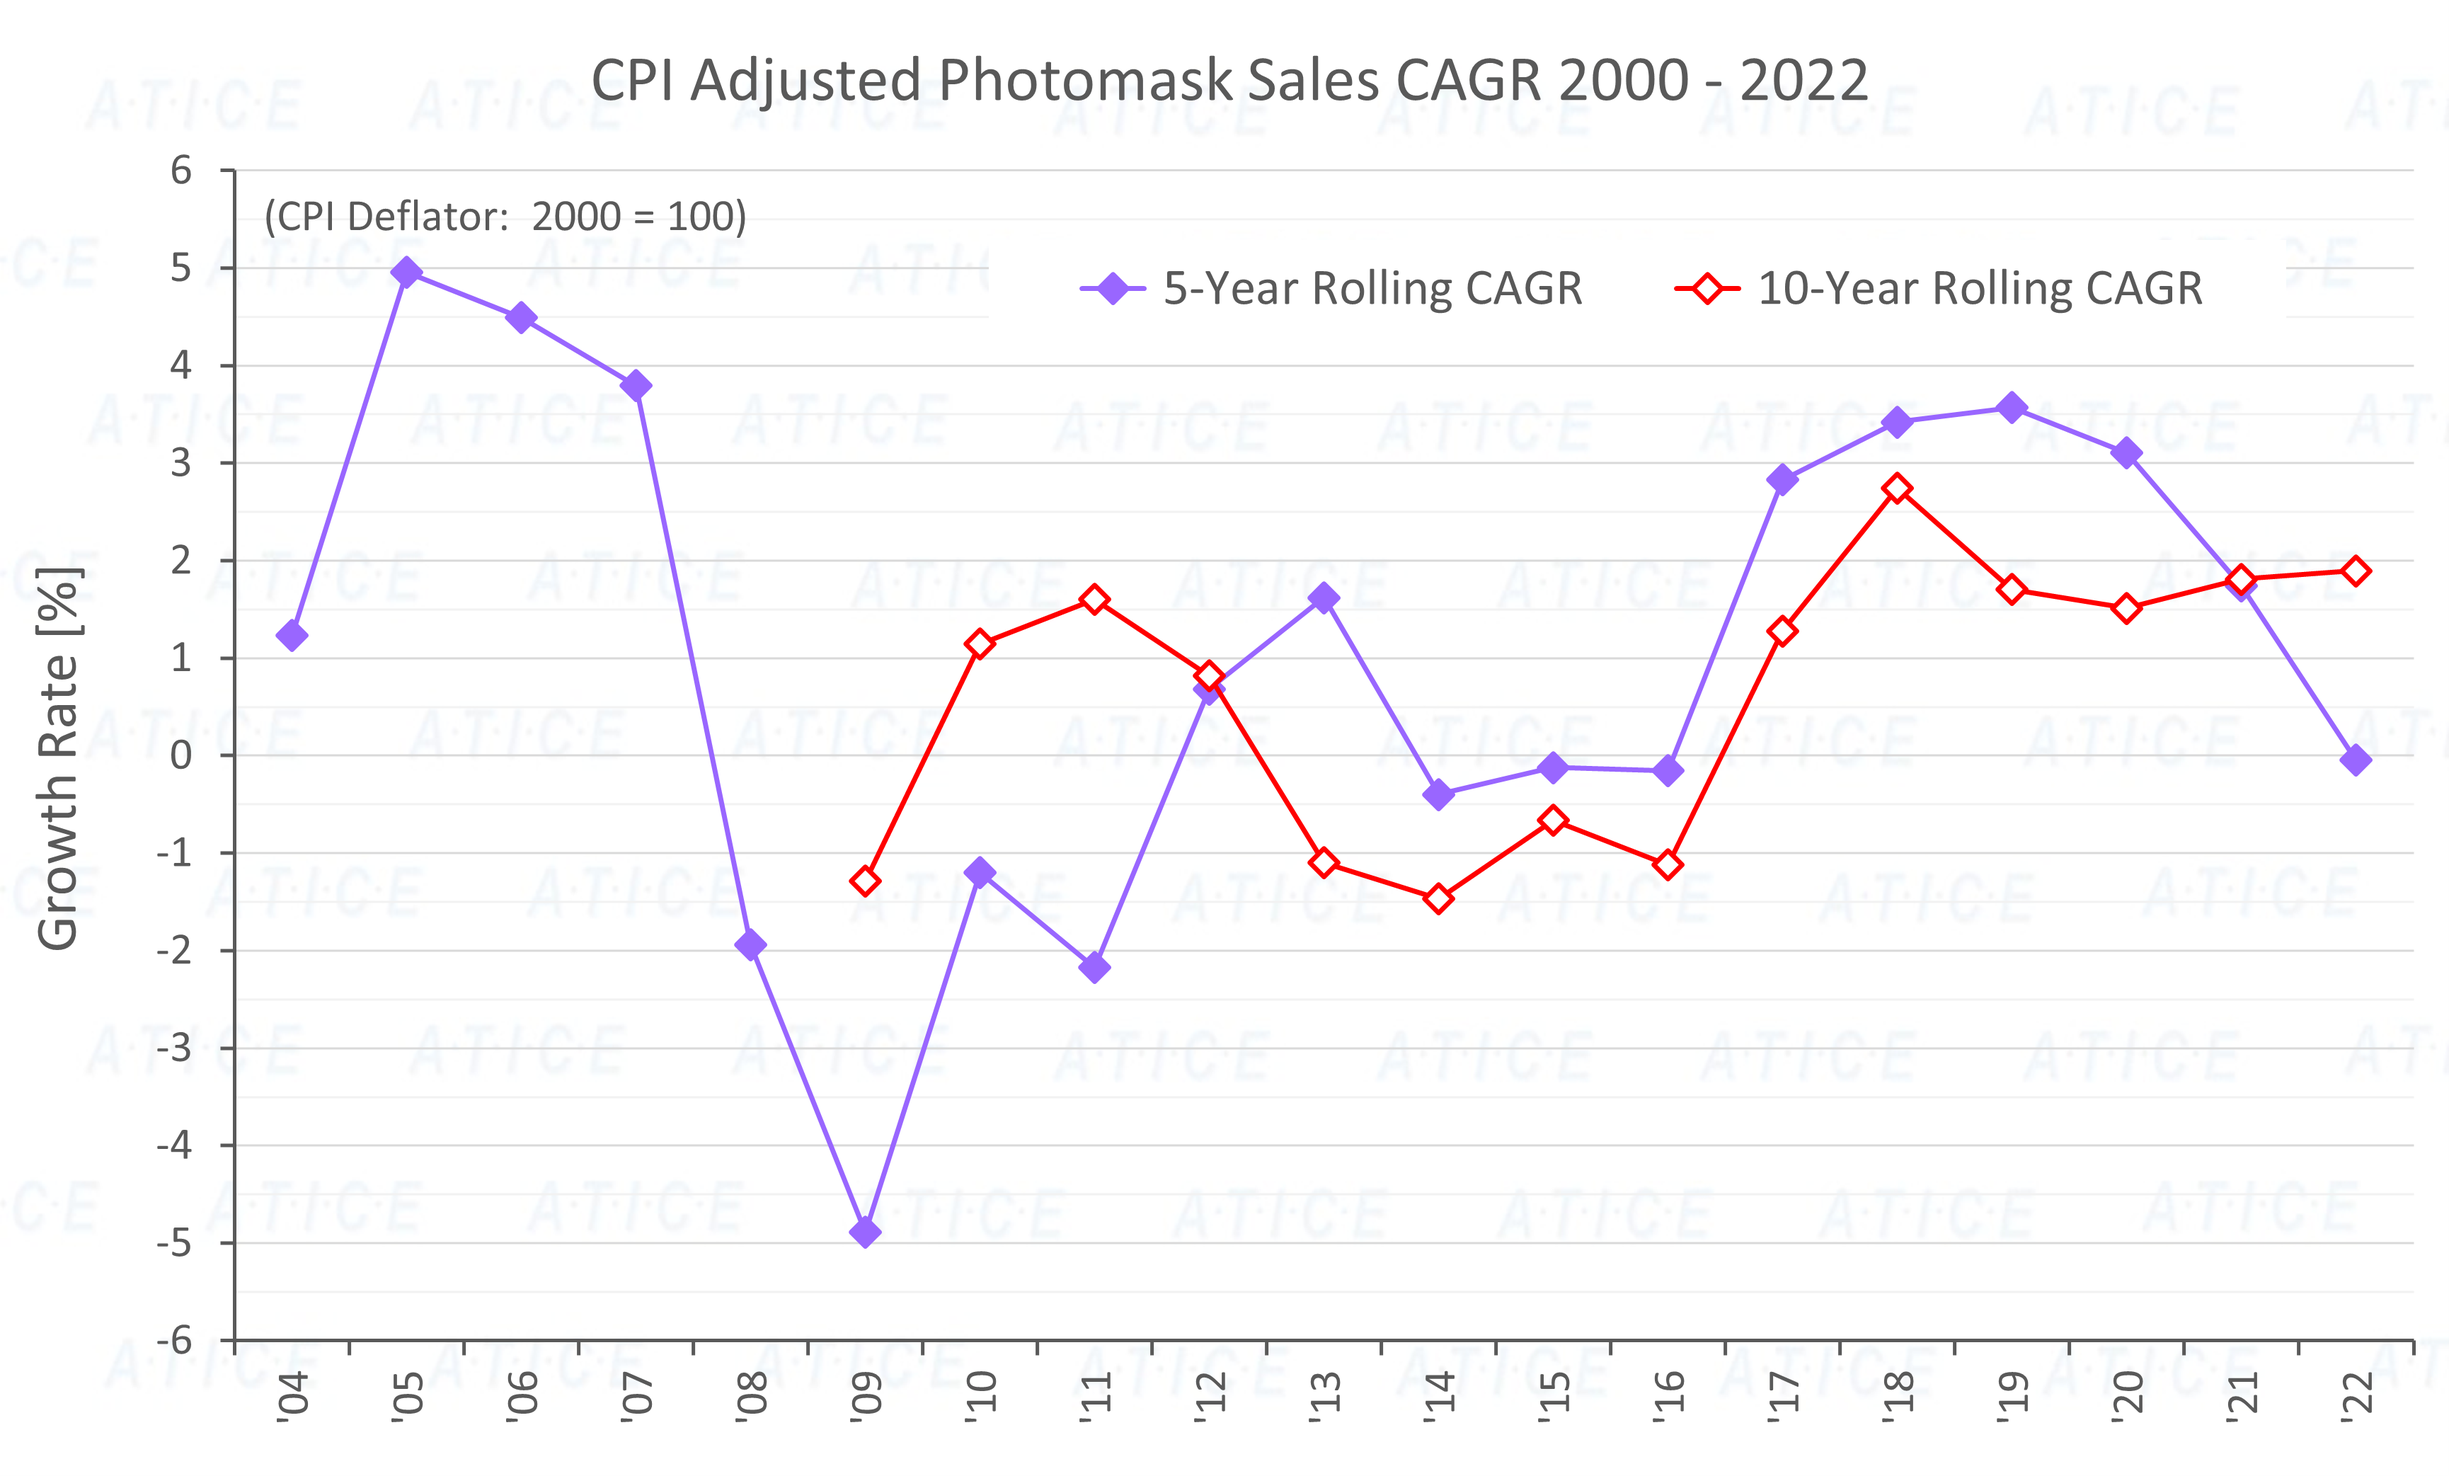
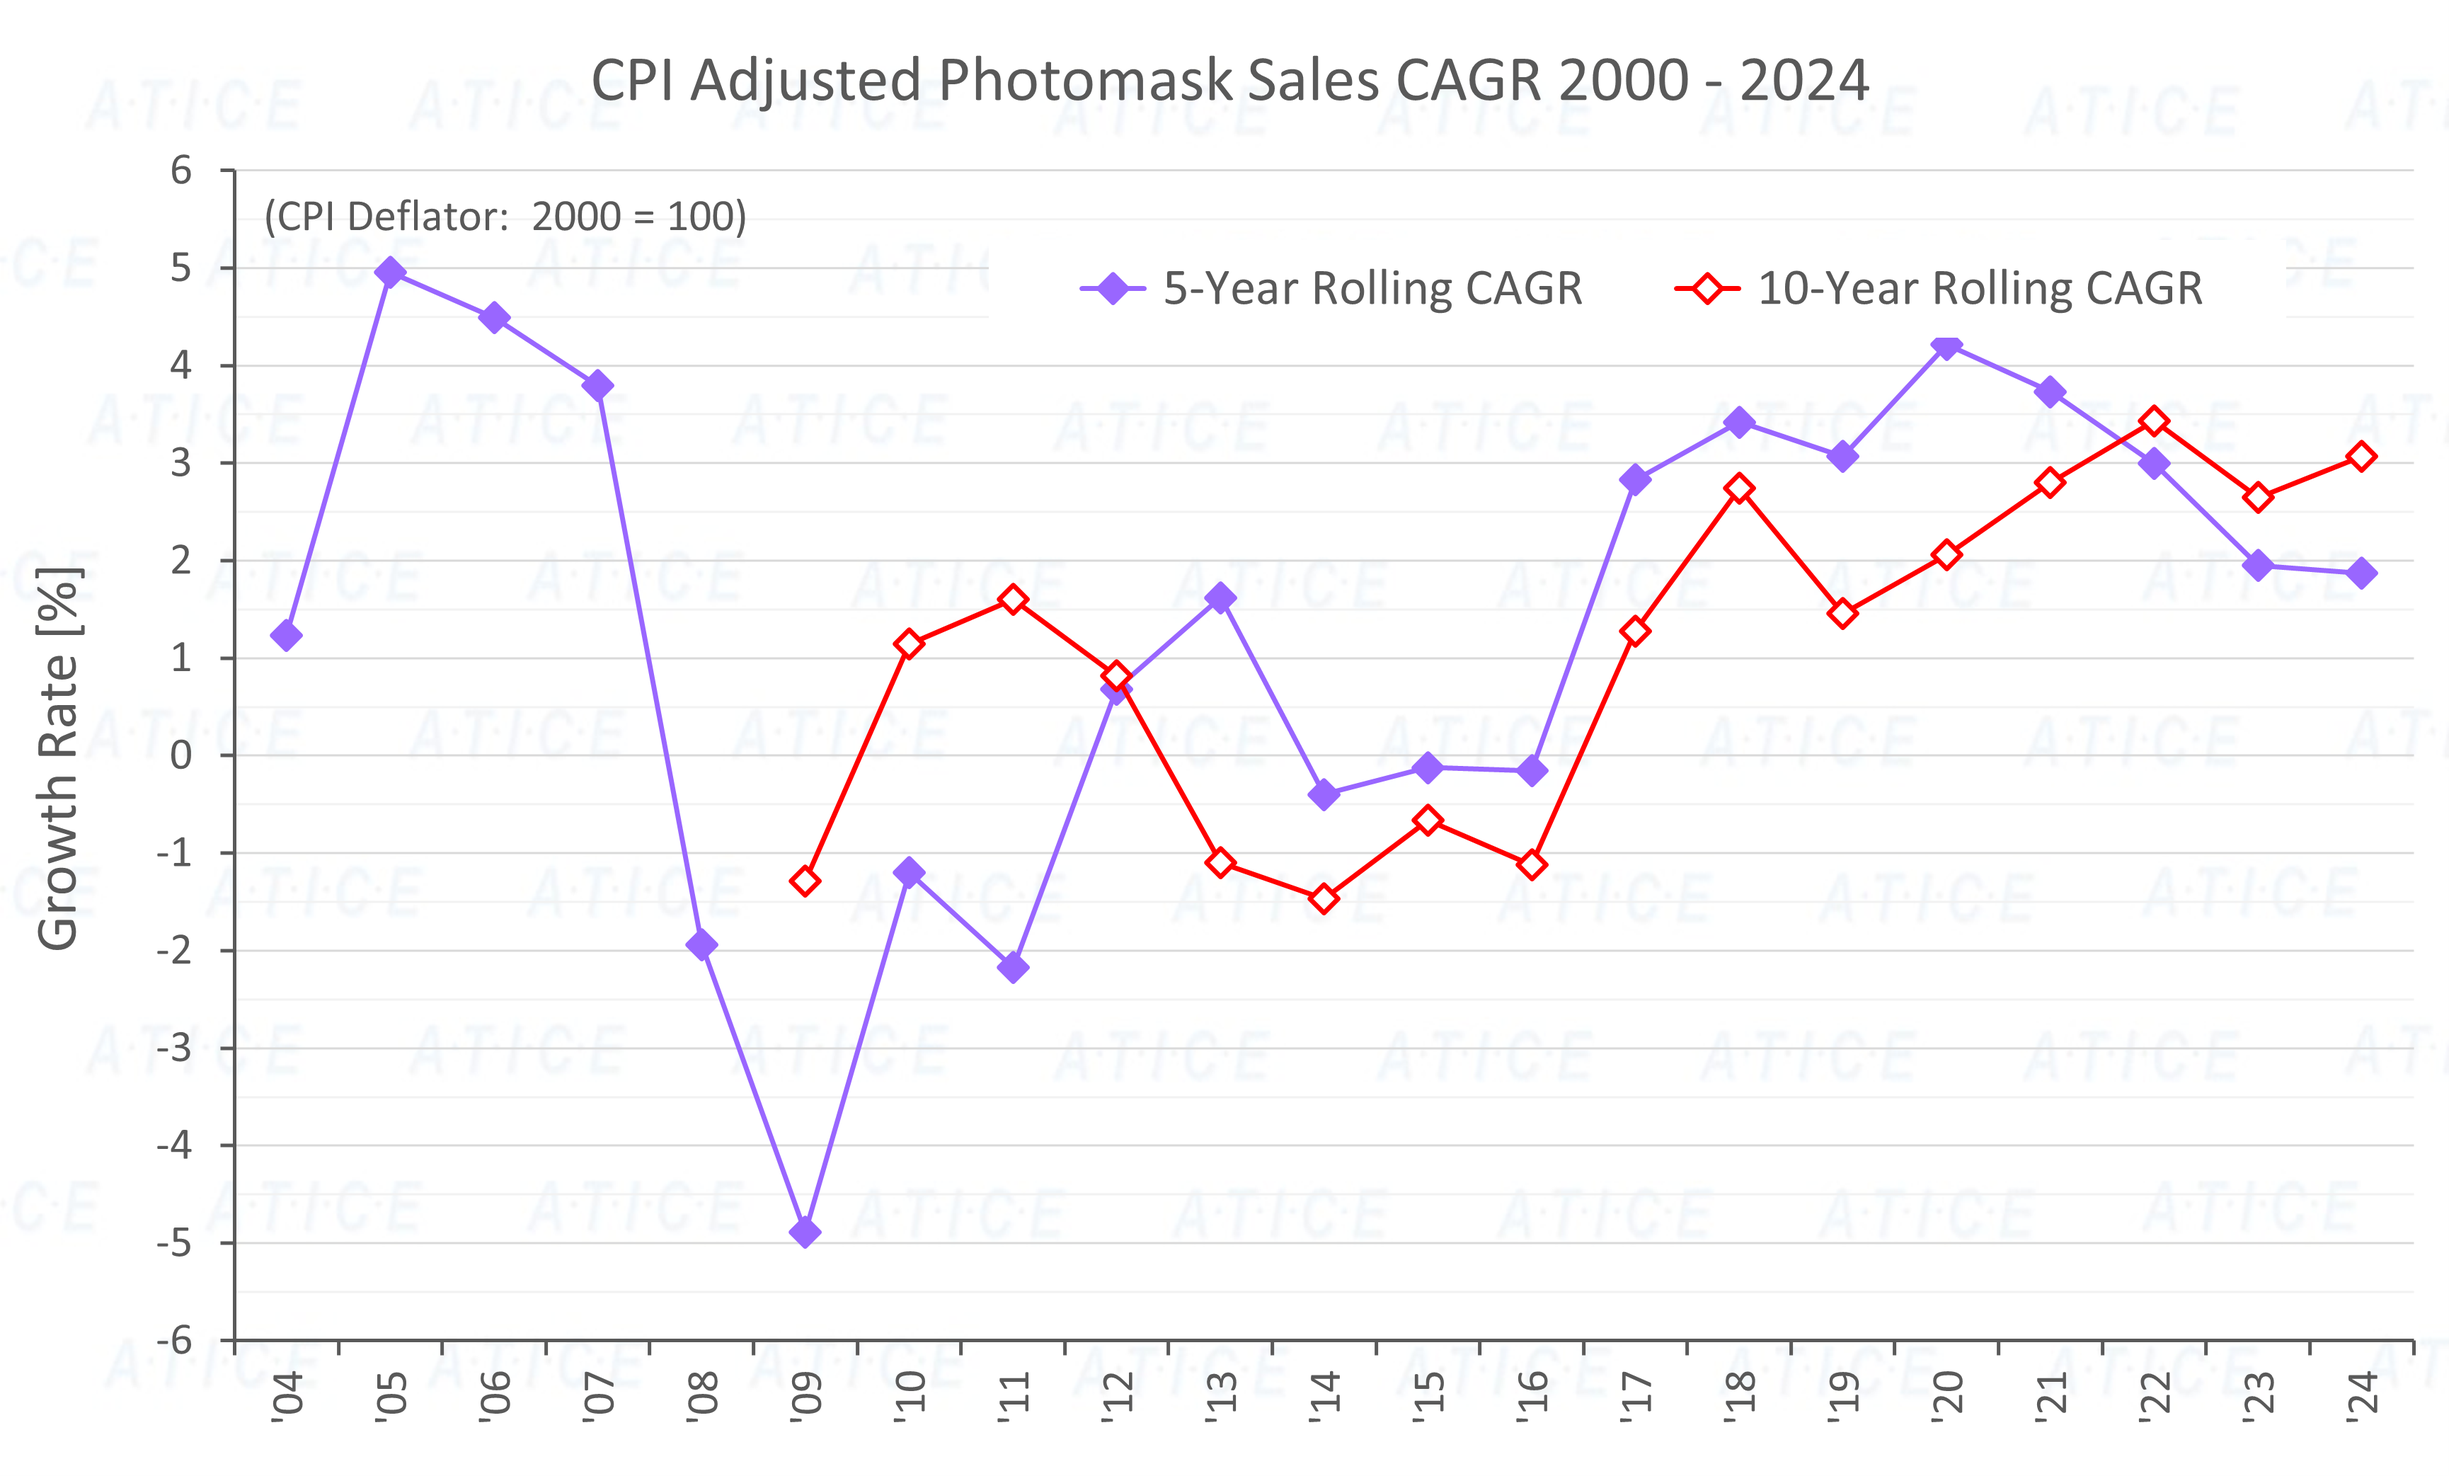
Data adds and error correction
Added new data to make graphs current and corrects minor errors

diff --git a/pages/consulting.html b/pages/consulting.html
@@ -103,7 +103,8 @@
         <div class="consultPanel">      
           <div style="display: block; width: 96%; margin: 0px auto; border-bottom: 1px solid black;"></div>
         </div>
-                                          
+        
+        <!--
         <div class="consultPanel">
                                   
           <div class="left">          
@@ -142,7 +143,7 @@
         <div class="consultPanel">      
           <div style="display: block; width: 96%; margin: 0px auto; border-bottom: 1px solid black;"></div>
         </div>      
-                
+        
         <div class="consultPanel">        
 
           <div class="left">        
@@ -192,6 +193,8 @@
           </div>
         </div>
       
+      -->
+
         <div class="noindent homeheadline" style="margin-top: 1.5em;">
           Industry Market Data - Free Downloads  
         </div>
@@ -238,7 +241,7 @@
     <div class="center" id="pagFooter" style="position: relative; width: 100%;">
                 
       <div class="ftrdivline"></div>        
-      <p class="center bizline" id="ftrCopyright">&copy;&nbsp;&nbsp;ATICE LLC&nbsp;&nbsp;2022</p>
+      <p class="center bizline" id="ftrCopyright">&copy;&nbsp;&nbsp;ATICE LLC&nbsp;&nbsp;2025</p>
            
     </div><!-- end pagFooter div -->
 

diff --git a/java/PDFwindow.js b/java/PDFwindow.js
@@ -27,9 +27,9 @@ function render(){
     var viewport_1 = page.getViewport(myState.zoom,myState.rotation)
     var outputScale = window.devicePixelRatio || 1;
     var transform_1 = outputScale !== 1
-      ? [outputScale, 0, 0, outputScale, 0, 0]
+      ? [1, 0, 0, 1, 0, 0]
       : null;
-
+    //alert(window.devicePixelRatio);
     canvas_1.width = viewport_1.width;
     canvas_1.height = viewport_1.height;
 
@@ -50,9 +50,9 @@ function render(){
     var viewport_2 = page.getViewport(myState.zoom,myState.rotation)
     var outputScale = window.devicePixelRatio || 1;
     var transform_2 = outputScale !== 1
-      ? [outputScale, 0, 0, outputScale, 0, 0]
+      ? [1, 0, 0, 1, 0, 0]
       : null;
-
+    //alert(transform_2);
     canvas_2.width = viewport_2.width;
     canvas_2.height = viewport_2.height;
 

diff --git a/pages/semidata/IndData.html b/pages/semidata/IndData.html
@@ -359,7 +359,7 @@
       <!--  Inflation Adjusted Semiconductor Sales Data End -->                               
 
       <div class="inpageHeading1">                     
-        <div>Inflation Adjusted Global Sales CAGR Data</div>       
+        <div>Inflation Adjusted CAGR Data</div>       
       </div>
       
       <!--  Inflation Adjusted Semiconductor Sales CAGR Data Begin -->
@@ -476,7 +476,7 @@
     <div class="center" id="pagFooter" style="position: relative; width: 100%;">
                 
       <div class="ftrdivline"></div>        
-      <p class="center bizline" id="ftrCopyright">&copy;&nbsp;&nbsp;ATICE LLC&nbsp;&nbsp;2022</p>
+      <p class="center bizline" id="ftrCopyright">&copy;&nbsp;&nbsp;ATICE LLC&nbsp;&nbsp;2025</p>
            
     </div><!-- end pagFooter div -->
       

diff --git a/pages/books.html b/pages/books.html
@@ -1013,7 +1013,7 @@
     <div class="center" id="pagFooter" style="position: relative; width: 100%;">
                 
       <div class="ftrdivline"></div>        
-      <p class="center bizline" id="ftrCopyright">&copy;&nbsp;&nbsp;ATICE LLC&nbsp;&nbsp;2022</p>
+      <p class="center bizline" id="ftrCopyright">&copy;&nbsp;&nbsp;ATICE LLC&nbsp;&nbsp;2025</p>
            
     </div><!-- end pagFooter div -->
     

diff --git a/index.html b/index.html
@@ -140,7 +140,7 @@
     <div class="center" id="pagFooter" style="position: relative; width: 100%;">
                 
       <div class="ftrdivline"></div>        
-      <p class="center bizline" id="ftrCopyright">&copy;&nbsp;&nbsp;ATICE LLC&nbsp;&nbsp;2022</p>
+      <p class="center bizline" id="ftrCopyright">&copy;&nbsp;&nbsp;ATICE LLC&nbsp;&nbsp;2025</p>
            
     </div><!-- end pagFooter div -->
     

diff --git a/pages/about.html b/pages/about.html
@@ -108,7 +108,7 @@
     <div class="center" id="pagFooter" style="position: relative; width: 100%;">
                 
       <div class="ftrdivline"></div>        
-      <p class="center bizline" id="ftrCopyright">&copy;&nbsp;&nbsp;ATICE LLC&nbsp;&nbsp;2022</p>
+      <p class="center bizline" id="ftrCopyright">&copy;&nbsp;&nbsp;ATICE LLC&nbsp;&nbsp;2025</p>
            
     </div><!-- end pagFooter div -->
     

diff --git a/pages/contact.html b/pages/contact.html
@@ -70,7 +70,7 @@
     <div class="center" id="pagFooter" style="position: relative; width: 100%;">
                 
       <div class="ftrdivline"></div>        
-      <p class="center bizline" id="ftrCopyright">&copy;&nbsp;&nbsp;ATICE LLC&nbsp;&nbsp;2022</p>
+      <p class="center bizline" id="ftrCopyright">&copy;&nbsp;&nbsp;ATICE LLC&nbsp;&nbsp;2025</p>
            
     </div><!-- end pagFooter div -->
     
